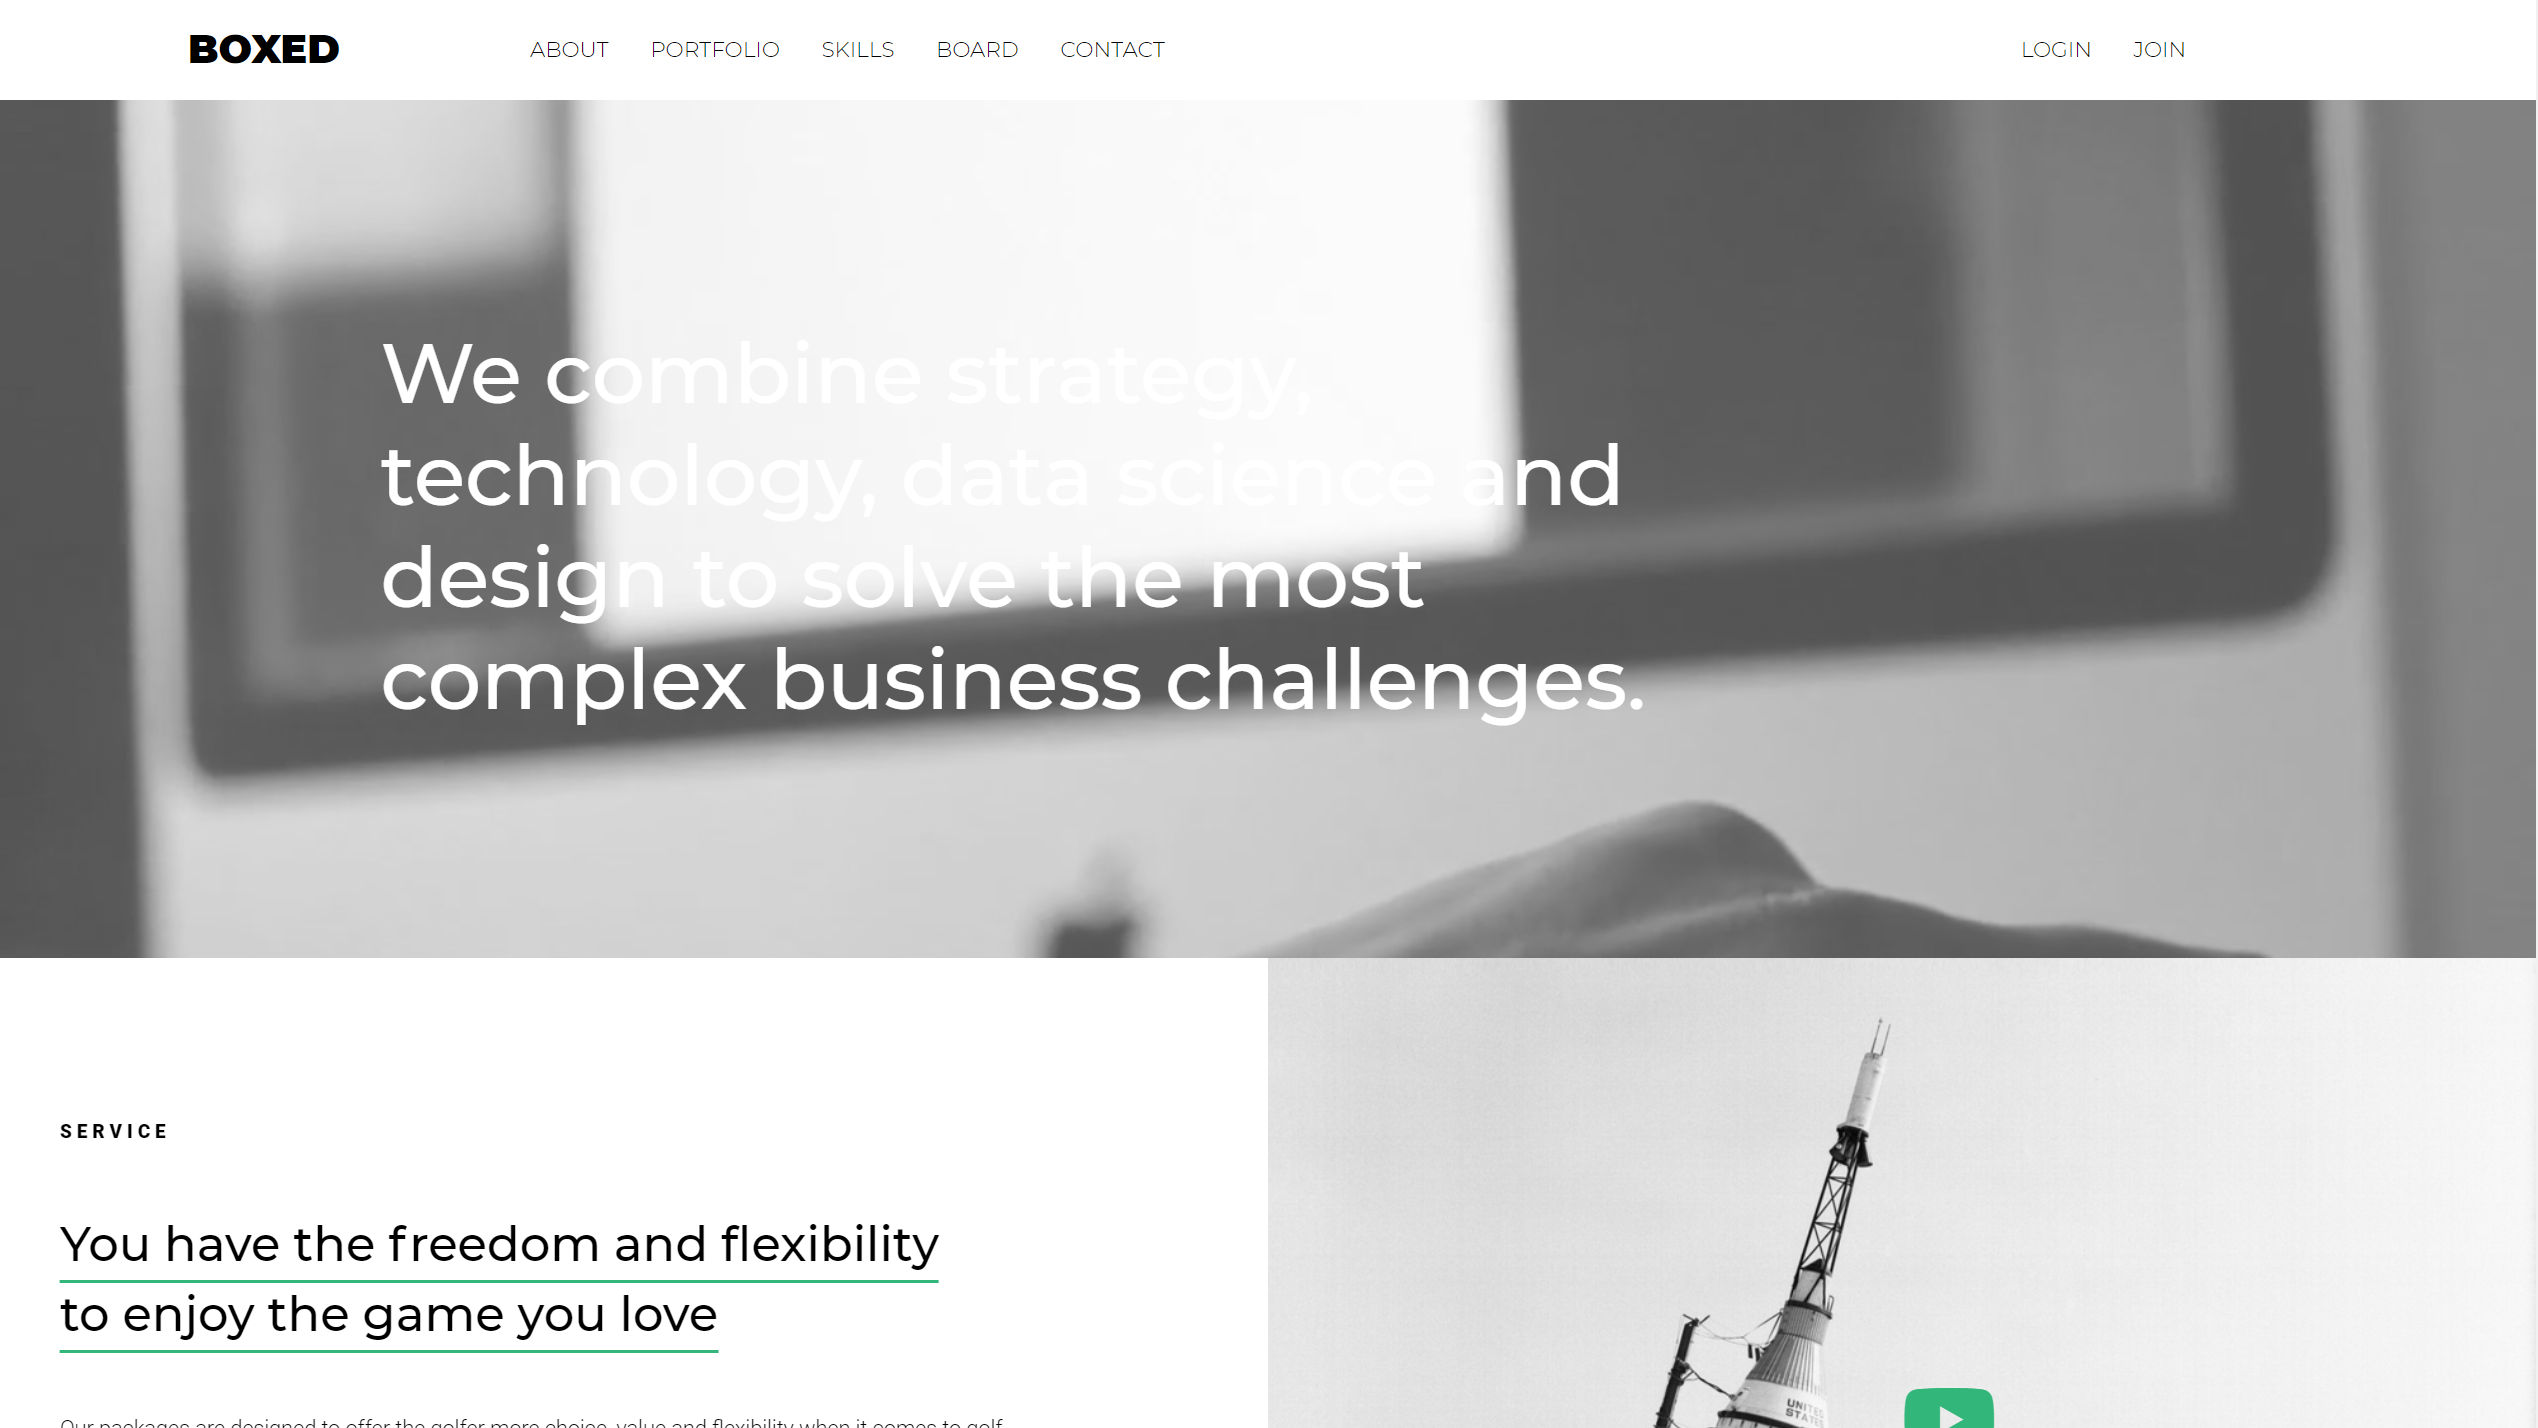
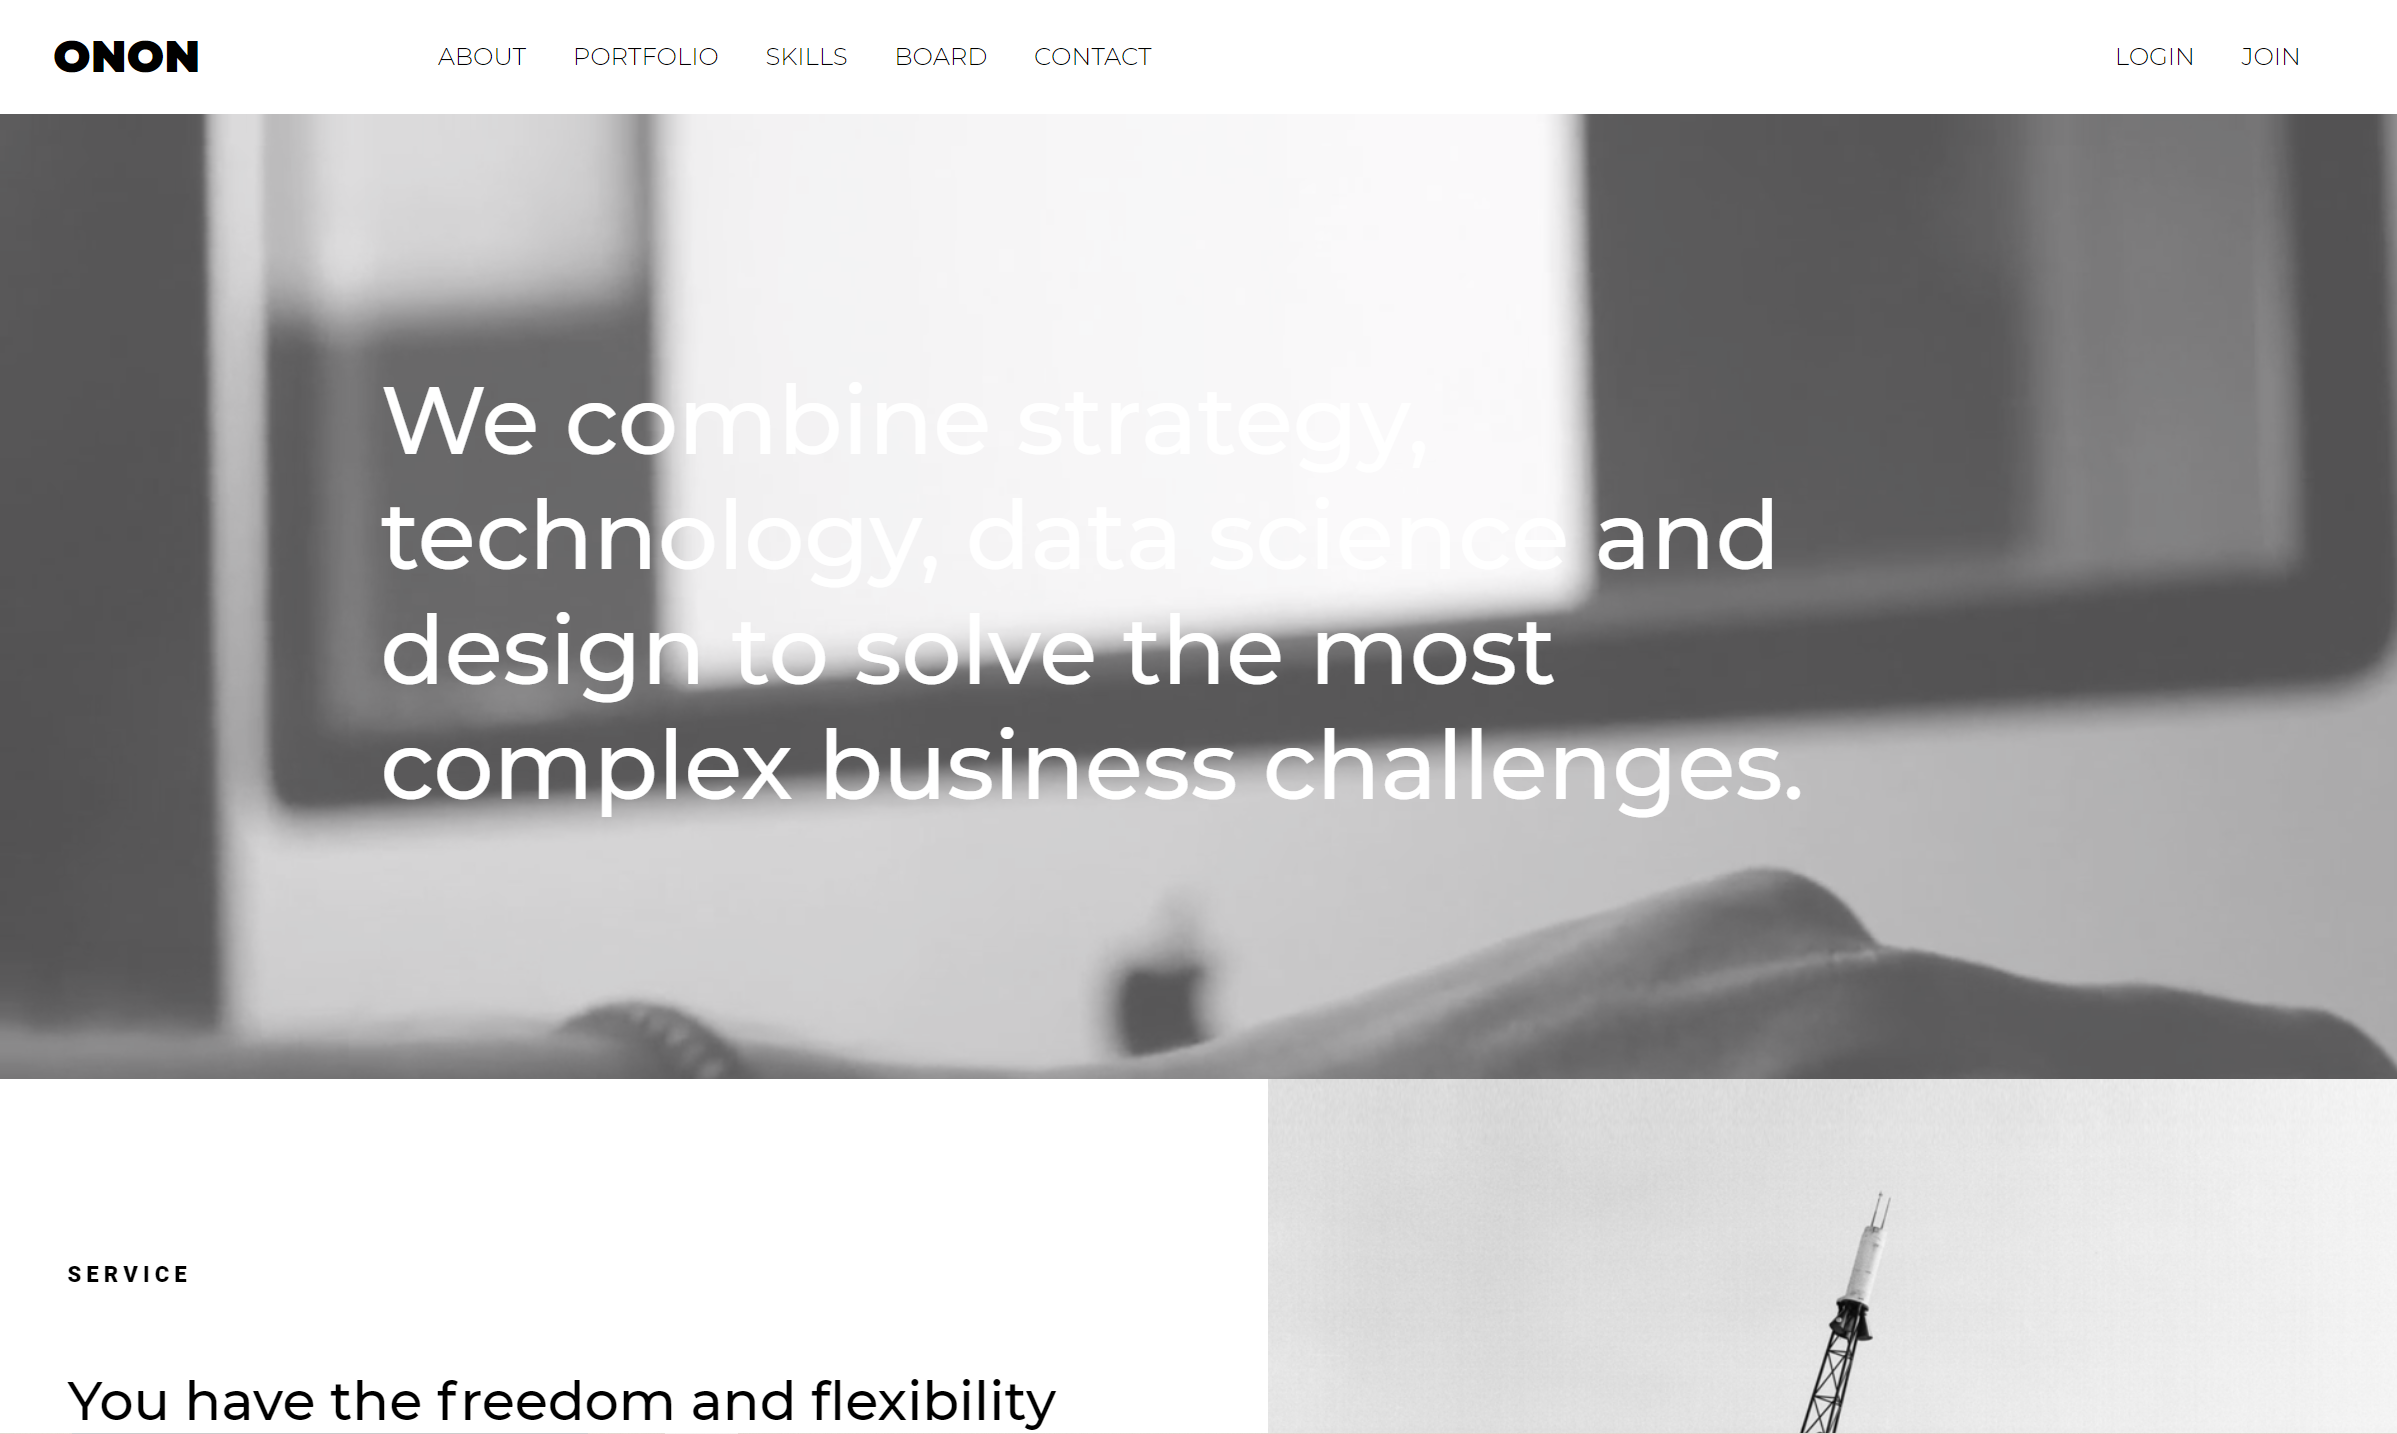
.

diff --git a/index.html b/index.html
@@ -3,7 +3,7 @@
 <head>
     <meta charset="UTF-8">
     <meta name="viewport" content="width=device-width, initial-scale=1.0">
-    <title>Boxed</title>
+    <title>ONON-PORTFOLIO</title>
     <link rel="stylesheet" href="https://use.fontawesome.com/releases/v5.7.0/css/all.css">
     <link rel="preconnect" href="https://fonts.gstatic.com">
     <link href="https://fonts.googleapis.com/css2?family=Montserrat:wght@200;300;600;700;800;900&family=Roboto:wght@300;400;500;900&display=swap" rel="stylesheet">

diff --git a/skills.html b/skills.html
@@ -3,7 +3,7 @@
 <head>
     <meta charset="UTF-8">
     <meta name="viewport" content="width=device-width, initial-scale=1.0">
-    <title>Boxed</title>
+    <title>ONON-PORTFOLIO</title>
     <link rel="stylesheet" href="https://use.fontawesome.com/releases/v5.7.0/css/all.css">
     <link rel="preconnect" href="https://fonts.gstatic.com">
     <link href="https://fonts.googleapis.com/css2?family=Montserrat:wght@200;300;600;700;800;900&family=Roboto:wght@300;400;500;900&display=swap" rel="stylesheet">

diff --git a/portfolio.html b/portfolio.html
@@ -20,7 +20,7 @@
                             </a>
                         </div>
                         <div class="pf-txt">
-                            <h2>TITLE : <span>2차 레쥬메 사이트 - BOXED</span></h2>
+                            <h2>TITLE : <span>2차 레쥬메 사이트 - ONON</span></h2>
                             <div class="color color01">
                                 <div>Theme Color : </div>
                                 <div></div>

diff --git a/css/portfolio.css b/css/portfolio.css
@@ -24,7 +24,9 @@
     justify-content: center;
 }
 .pf-list-section > div { width: 42%; margin:3%;}
-.pf-list-section img { border-radius:15px; border:2px solid #ddd}
+.pf-list-section img { border-radius:15px; border:2px solid #ddd;
+    height:300px;
+}
 
 .pf-overlay-wrap { position: relative;  }
 .pf-overlay { position: absolute; top:0; left:0; bottom:0; right:0;
